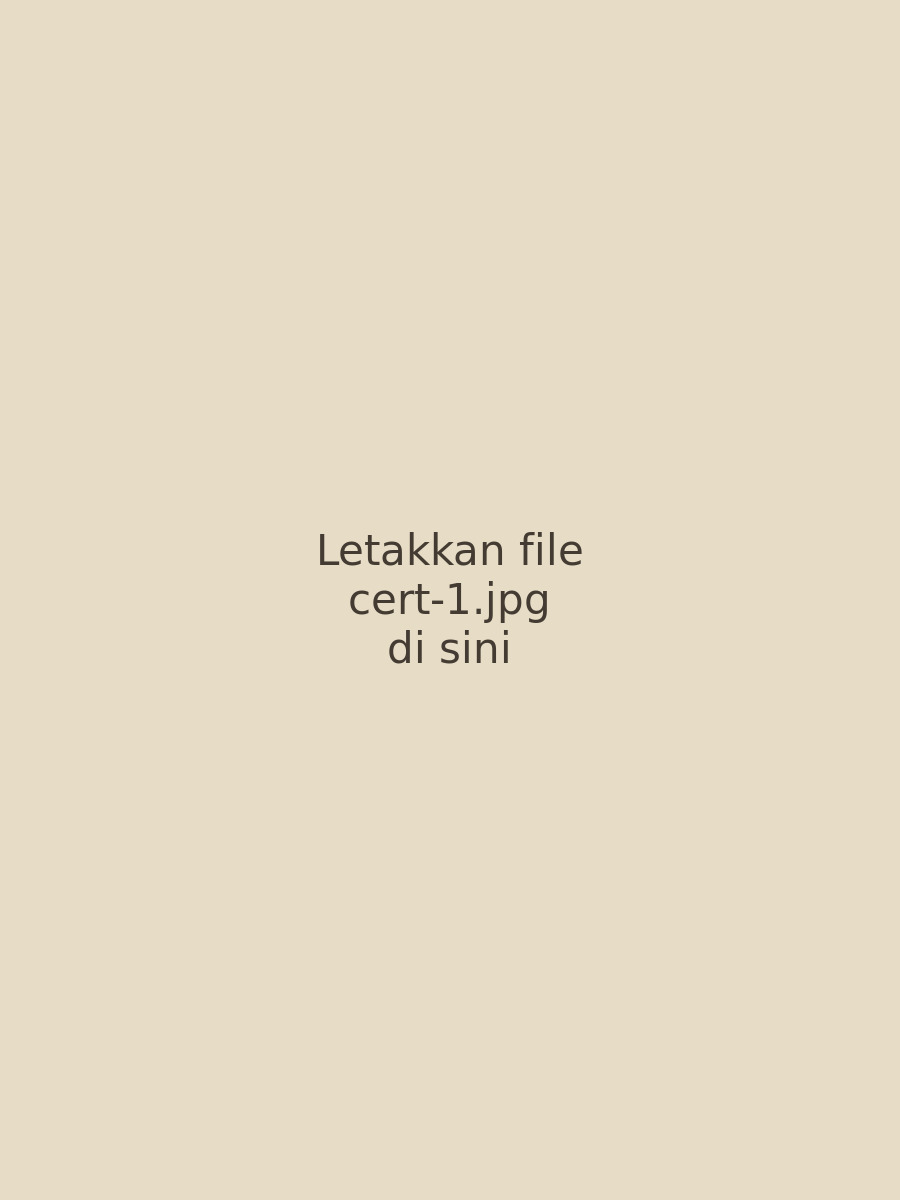
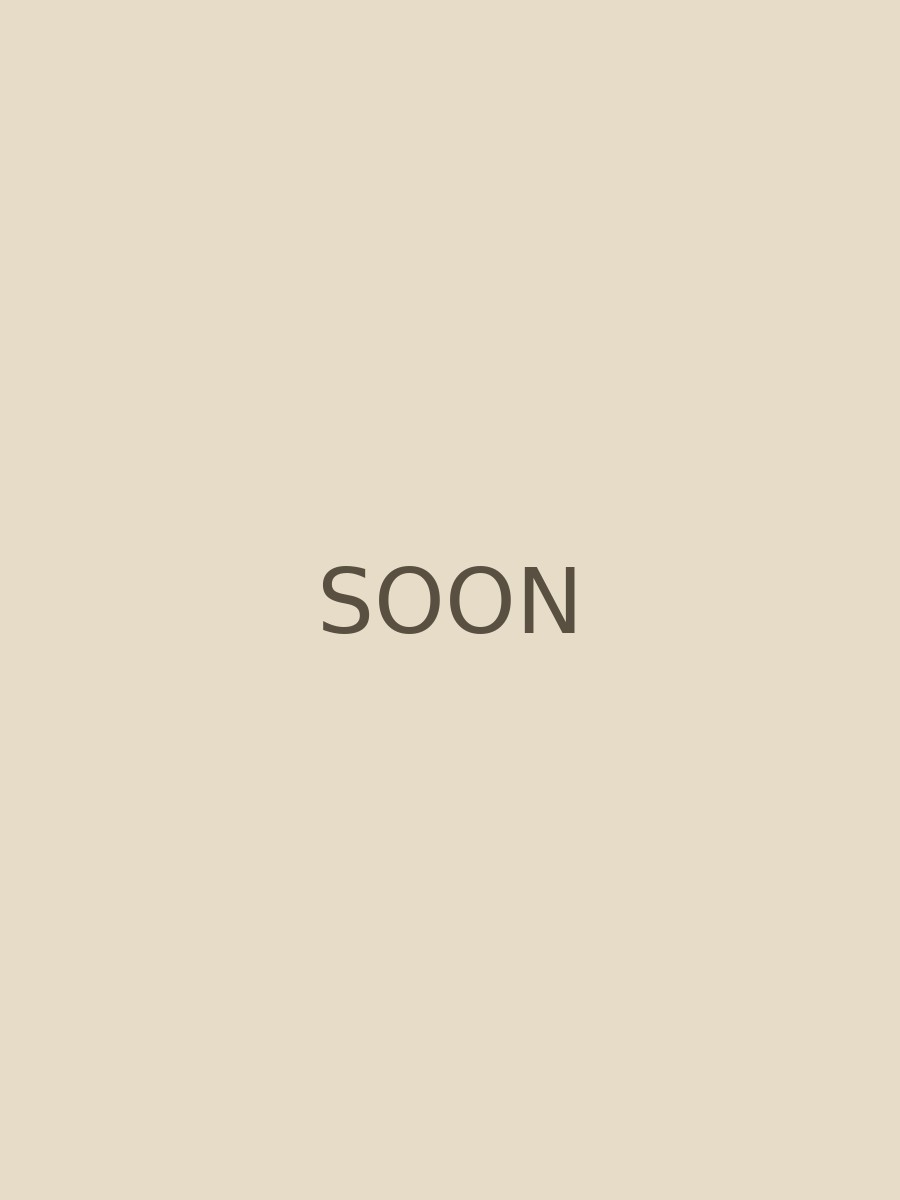
Ubah foto sertifikat 11sep2026

Changed region(s): [[0.3422, 0.4317, 0.6533, 0.555]]

diff --git a/dist/assets/index-ByrMPjtz.css b/dist/assets/index-ByrMPjtz.css
@@ -1,0 +1,2 @@
+/*! tailwindcss v4.3.3 | MIT License | https://tailwindcss.com */
+@layer properties{@supports (((-webkit-hyphens:none)) and (not (margin-trim:inline))) or ((-moz-orient:inline) and (not (color:rgb(from red r g b)))){*,:before,:after,::backdrop{--tw-translate-x:0;--tw-translate-y:0;--tw-translate-z:0;--tw-scale-x:1;--tw-scale-y:1;--tw-scale-z:1;--tw-rotate-x:initial;--tw-rotate-y:initial;--tw-rotate-z:initial;--tw-skew-x:initial;--tw-skew-y:initial;--tw-space-y-reverse:0;--tw-divide-y-reverse:0;--tw-border-style:solid;--tw-leading:initial;--tw-font-weight:initial;--tw-tracking:initial;--tw-shadow:0 0 #0000;--tw-shadow-color:initial;--tw-shadow-alpha:100%;--tw-inset-shadow:0 0 #0000;--tw-inset-shadow-color:initial;--tw-inset-shadow-alpha:100%;--tw-ring-color:initial;--tw-ring-shadow:0 0 #0000;--tw-inset-ring-color:initial;--tw-inset-ring-shadow:0 0 #0000;--tw-ring-inset:initial;--tw-ring-offset-width:0px;--tw-ring-offset-color:#fff;--tw-ring-offset-shadow:0 0 #0000;--tw-blur:initial;--tw-brightness:initial;--tw-contrast:initial;--tw-grayscale:initial;--tw-hue-rotate:initial;--tw-invert:initial;--tw-opacity:initial;--tw-saturate:initial;--tw-sepia:initial;--tw-drop-shadow:initial;--tw-drop-shadow-color:initial;--tw-drop-shadow-alpha:100%;--tw-drop-shadow-size:initial;--tw-backdrop-blur:initial;--tw-backdrop-brightness:initial;--tw-backdrop-contrast:initial;--tw-backdrop-grayscale:initial;--tw-backdrop-hue-rotate:initial;--tw-backdrop-invert:initial;--tw-backdrop-opacity:initial;--tw-backdrop-saturate:initial;--tw-backdrop-sepia:initial;--tw-duration:initial;--tw-ease:initial}}}@layer theme{:root,:host{--font-sans:-apple-system, BlinkMacSystemFont, "Segoe UI", Roboto, "Helvetica Neue", "Noto Sans", Arial, sans-serif, "Apple Color Emoji", "Segoe UI Emoji", "Segoe UI Symbol", "Noto Color Emoji";--font-mono:ui-monospace, SFMono-Regular, Menlo, Monaco, Consolas, "Liberation Mono", "Courier New", monospace;--color-black:#000;--color-white:#fff;--spacing:.25rem;--container-md:28rem;--container-lg:32rem;--container-3xl:48rem;--container-5xl:64rem;--text-xs:.75rem;--text-xs--line-height:calc(1 / .75);--text-sm:.875rem;--text-sm--line-height:calc(1.25 / .875);--text-base:1rem;--text-base--line-height:calc(1.5 / 1);--text-lg:1.125rem;--text-lg--line-height:calc(1.75 / 1.125);--text-2xl:1.5rem;--text-2xl--line-height:calc(2 / 1.5);--text-3xl:1.875rem;--text-3xl--line-height:calc(2.25 / 1.875);--text-4xl:2.25rem;--text-4xl--line-height:calc(2.5 / 2.25);--text-5xl:3rem;--text-5xl--line-height:1;--text-6xl:3.75rem;--text-6xl--line-height:1;--text-7xl:4.5rem;--text-7xl--line-height:1;--font-weight-medium:500;--font-weight-semibold:600;--tracking-tight:-.025em;--leading-tight:1.25;--leading-snug:1.375;--radius-md:.375rem;--radius-xl:.75rem;--radius-2xl:1rem;--ease-out:cubic-bezier(0, 0, .2, 1);--blur-md:12px;--default-transition-duration:.15s;--default-transition-timing-function:cubic-bezier(.4, 0, .2, 1);--default-font-family:var(--font-sans);--default-mono-font-family:var(--font-mono);--color-bg:#0d1117;--color-bg-soft:#151b23;--color-surface:#1c232c;--color-ink:#eef1f4;--color-accent:#22d3c7}}@layer base{*,:after,:before,::backdrop{box-sizing:border-box;border:0 solid;margin:0;padding:0}::file-selector-button{box-sizing:border-box;border:0 solid;margin:0;padding:0}html,:host{-webkit-text-size-adjust:100%;tab-size:4;line-height:1.5;font-family:var(--default-font-family,-apple-system, BlinkMacSystemFont, "Segoe UI", Roboto, "Helvetica Neue", "Noto Sans", Arial, sans-serif, "Apple Color Emoji", "Segoe UI Emoji", "Segoe UI Symbol", "Noto Color Emoji");font-feature-settings:var(--default-font-feature-settings,normal);font-variation-settings:var(--default-font-variation-settings,normal);-webkit-tap-highlight-color:transparent}hr{height:0;color:inherit;border-top-width:1px}abbr:where([title]){-webkit-text-decoration:underline dotted;text-decoration:underline dotted}h1,h2,h3,h4,h5,h6{font-size:inherit;font-weight:inherit}a{color:inherit;-webkit-text-decoration:inherit;-webkit-text-decoration:inherit;-webkit-text-decoration:inherit;-webkit-text-decoration:inherit;text-decoration:inherit}b,strong{font-weight:bolder}code,kbd,samp,pre{font-family:var(--default-mono-font-family,ui-monospace, SFMono-Regular, Menlo, Monaco, Consolas, "Liberation Mono", "Courier New", monospace);font-feature-settings:var(--default-mono-font-feature-settings,normal);font-variation-settings:var(--default-mono-font-variation-settings,normal);font-size:1em}small{font-size:80%}sub,sup{vertical-align:baseline;font-size:75%;line-height:0;position:relative}sub{bottom:-.25em}sup{top:-.5em}table{text-indent:0;border-color:inherit;border-collapse:collapse}:-moz-focusring:where(:not(iframe)){outline:auto}progress{vertical-align:baseline}summary{display:list-item}ol,ul,menu{list-style:none}img,svg,video,canvas,audio,iframe,embed,object{vertical-align:middle;display:block}img,video{max-width:100%;height:auto}button,input,select,optgroup,textarea{font:inherit;font-feature-settings:inherit;font-variation-settings:inherit;letter-spacing:inherit;color:inherit;opacity:1;background-color:#0000;border-radius:0}::file-selector-button{font:inherit;font-feature-settings:inherit;font-variation-settings:inherit;letter-spacing:inherit;color:inherit;opacity:1;background-color:#0000;border-radius:0}:where(select:is([multiple],[size])) optgroup{font-weight:bolder}:where(select:is([multiple],[size])) optgroup option{padding-inline-start:20px}::file-selector-button{margin-inline-end:4px}::placeholder{opacity:1}@supports (not ((-webkit-appearance:-apple-pay-button))) or (contain-intrinsic-size:1px){::placeholder{color:currentColor}@supports (color:color-mix(in lab, red, red)){::placeholder{color:color-mix(in oklab, currentcolor 50%, transparent)}}}textarea{resize:vertical}::-webkit-search-decoration{-webkit-appearance:none}::-webkit-date-and-time-value{min-height:1lh;text-align:inherit}::-webkit-datetime-edit{display:inline-flex}::-webkit-datetime-edit-fields-wrapper{padding:0}::-webkit-datetime-edit{padding-block:0}::-webkit-datetime-edit-year-field{padding-block:0}::-webkit-datetime-edit-month-field{padding-block:0}::-webkit-datetime-edit-day-field{padding-block:0}::-webkit-datetime-edit-hour-field{padding-block:0}::-webkit-datetime-edit-minute-field{padding-block:0}::-webkit-datetime-edit-second-field{padding-block:0}::-webkit-datetime-edit-millisecond-field{padding-block:0}::-webkit-datetime-edit-meridiem-field{padding-block:0}::-webkit-calendar-picker-indicator{line-height:1}:-moz-ui-invalid{box-shadow:none}button,input:where([type=button],[type=reset],[type=submit]){appearance:button}::file-selector-button{appearance:button}::-webkit-inner-spin-button{height:auto}::-webkit-outer-spin-button{height:auto}[hidden]:where(:not([hidden=until-found])){display:none!important}:root{color:var(--color-ink);background:var(--color-bg);font-synthesis:none;text-rendering:optimizelegibility;font-family:Inter,system-ui,sans-serif}html{scroll-behavior:auto;scroll-padding-top:88px}body{background:var(--color-bg);width:100%;min-width:320px;margin:0}main>section{flex-direction:column;justify-content:center;min-height:100vh;display:flex}a{color:inherit;text-decoration:none}button,a{-webkit-tap-highlight-color:transparent}::selection{background:var(--color-accent);color:var(--color-bg)}}@layer components;@layer utilities{.pointer-events-none{pointer-events:none}.visible{visibility:visible}.absolute{position:absolute}.fixed{position:fixed}.relative{position:relative}.static{position:static}.inset-0{inset:0}.inset-x-0{inset-inline:0}.inset-y-0{inset-block:0}.top-0{top:0}.top-1\/2{top:50%}.top-\[12\%\]{top:12%}.top-\[18\%\]{top:18%}.top-\[62\%\]{top:62%}.top-\[80\%\]{top:80%}.right-0{right:0}.right-3{right:calc(var(--spacing) * 3)}.right-6{right:calc(var(--spacing) * 6)}.-bottom-0,.bottom-0{bottom:0}.bottom-6{bottom:calc(var(--spacing) * 6)}.left-0{left:0}.left-3{left:calc(var(--spacing) * 3)}.left-\[40\%\]{left:40%}.left-\[46\%\]{left:46%}.left-\[58\%\]{left:58%}.left-\[64\%\]{left:64%}.z-10{z-index:10}.z-40{z-index:40}.z-50{z-index:50}.z-\[100\]{z-index:100}.container{width:100%}@media (width>=40rem){.container{max-width:40rem}}@media (width>=48rem){.container{max-width:48rem}}@media (width>=64rem){.container{max-width:64rem}}@media (width>=80rem){.container{max-width:80rem}}@media (width>=96rem){.container{max-width:96rem}}.mx-auto{margin-inline:auto}.mt-1{margin-top:var(--spacing)}.mt-2{margin-top:calc(var(--spacing) * 2)}.mt-3{margin-top:calc(var(--spacing) * 3)}.mt-4{margin-top:calc(var(--spacing) * 4)}.mt-5{margin-top:calc(var(--spacing) * 5)}.mt-6{margin-top:calc(var(--spacing) * 6)}.mt-8{margin-top:calc(var(--spacing) * 8)}.mt-10{margin-top:calc(var(--spacing) * 10)}.mt-12{margin-top:calc(var(--spacing) * 12)}.mt-auto{margin-top:auto}.mb-5{margin-bottom:calc(var(--spacing) * 5)}.block{display:block}.flex{display:flex}.grid{display:grid}.hidden{display:none}.inline{display:inline}.inline-block{display:inline-block}.aspect-\[3\/4\]{aspect-ratio:3/4}.aspect-\[4\/5\]{aspect-ratio:4/5}.aspect-\[16\/10\]{aspect-ratio:16/10}.h-1{height:var(--spacing)}.h-1\.5{height:calc(var(--spacing) * 1.5)}.h-1\/3{height:33.3333%}.h-1\/5{height:20%}.h-2{height:calc(var(--spacing) * 2)}.h-2\.5{height:calc(var(--spacing) * 2.5)}.h-3{height:calc(var(--spacing) * 3)}.h-4{height:calc(var(--spacing) * 4)}.h-9{height:calc(var(--spacing) * 9)}.h-11{height:calc(var(--spacing) * 11)}.h-full{height:100%}.h-px{height:1px}.max-h-0{max-height:0}.max-h-80{max-height:calc(var(--spacing) * 80)}.max-h-\[90vh\]{max-height:90vh}.w-1{width:var(--spacing)}.w-1\.5{width:calc(var(--spacing) * 1.5)}.w-1\/2{width:50%}.w-2{width:calc(var(--spacing) * 2)}.w-2\.5{width:calc(var(--spacing) * 2.5)}.w-3{width:calc(var(--spacing) * 3)}.w-3\/5{width:60%}.w-4{width:calc(var(--spacing) * 4)}.w-6{width:calc(var(--spacing) * 6)}.w-9{width:calc(var(--spacing) * 9)}.w-11{width:calc(var(--spacing) * 11)}.w-full{width:100%}.max-w-3xl{max-width:var(--container-3xl)}.max-w-5xl{max-width:var(--container-5xl)}.max-w-\[100rem\]{max-width:100rem}.max-w-\[360px\]{max-width:360px}.max-w-lg{max-width:var(--container-lg)}.max-w-md{max-width:var(--container-md)}.min-w-0{min-width:0}.flex-1{flex:1}.shrink-0{flex-shrink:0}.origin-left{transform-origin:0}.-translate-y-1\/2{--tw-translate-y:calc(calc(1 / 2 * 100%) * -1);translate:var(--tw-translate-x) var(--tw-translate-y)}.-translate-y-\[6px\]{--tw-translate-y:calc(6px * -1);translate:var(--tw-translate-x) var(--tw-translate-y)}.translate-y-0{--tw-translate-y:0px;translate:var(--tw-translate-x) var(--tw-translate-y)}.translate-y-3{--tw-translate-y:calc(var(--spacing) * 3);translate:var(--tw-translate-x) var(--tw-translate-y)}.translate-y-\[6px\]{--tw-translate-y:6px;translate:var(--tw-translate-x) var(--tw-translate-y)}.scale-x-0{--tw-scale-x:0%;scale:var(--tw-scale-x) var(--tw-scale-y)}.-rotate-45{rotate:-45deg}.rotate-45{rotate:45deg}.transform{transform:var(--tw-rotate-x,) var(--tw-rotate-y,) var(--tw-rotate-z,) var(--tw-skew-x,) var(--tw-skew-y,)}.resize{resize:both}.grid-cols-2{grid-template-columns:repeat(2,minmax(0,1fr))}.flex-col{flex-direction:column}.flex-wrap{flex-wrap:wrap}.items-center{align-items:center}.items-start{align-items:flex-start}.justify-between{justify-content:space-between}.justify-center{justify-content:center}.gap-1{gap:var(--spacing)}.gap-1\.5{gap:calc(var(--spacing) * 1.5)}.gap-2{gap:calc(var(--spacing) * 2)}.gap-2\.5{gap:calc(var(--spacing) * 2.5)}.gap-3{gap:calc(var(--spacing) * 3)}.gap-4{gap:calc(var(--spacing) * 4)}.gap-6{gap:calc(var(--spacing) * 6)}.gap-7{gap:calc(var(--spacing) * 7)}.gap-8{gap:calc(var(--spacing) * 8)}.gap-12{gap:calc(var(--spacing) * 12)}.gap-px{gap:1px}:where(.space-y-2>:not(:last-child)){--tw-space-y-reverse:0;margin-block-start:calc(calc(var(--spacing) * 2) * var(--tw-space-y-reverse));margin-block-end:calc(calc(var(--spacing) * 2) * calc(1 - var(--tw-space-y-reverse)))}:where(.divide-y>:not(:last-child)){--tw-divide-y-reverse:0;border-bottom-style:var(--tw-border-style);border-top-style:var(--tw-border-style);border-top-width:calc(1px * var(--tw-divide-y-reverse));border-bottom-width:calc(1px * calc(1 - var(--tw-divide-y-reverse)))}:where(.divide-ink\/10>:not(:last-child)){border-color:#eef1f41a}@supports (color:color-mix(in lab, red, red)){:where(.divide-ink\/10>:not(:last-child)){border-color:color-mix(in oklab, var(--color-ink) 10%, transparent)}}.truncate{text-overflow:ellipsis;white-space:nowrap;overflow:hidden}.overflow-hidden{overflow:hidden}.overflow-y-auto{overflow-y:auto}.rounded{border-radius:.25rem}.rounded-2xl{border-radius:var(--radius-2xl)}.rounded-\[2rem\]{border-radius:2rem}.rounded-full{border-radius:2147483647px}.rounded-md{border-radius:var(--radius-md)}.rounded-xl{border-radius:var(--radius-xl)}.border{border-style:var(--tw-border-style);border-width:1px}.border-t{border-top-style:var(--tw-border-style);border-top-width:1px}.border-b{border-bottom-style:var(--tw-border-style);border-bottom-width:1px}.border-accent\/50{border-color:#22d3c780}@supports (color:color-mix(in lab, red, red)){.border-accent\/50{border-color:color-mix(in oklab, var(--color-accent) 50%, transparent)}}.border-ink\/10{border-color:#eef1f41a}@supports (color:color-mix(in lab, red, red)){.border-ink\/10{border-color:color-mix(in oklab, var(--color-ink) 10%, transparent)}}.border-ink\/15{border-color:#eef1f426}@supports (color:color-mix(in lab, red, red)){.border-ink\/15{border-color:color-mix(in oklab, var(--color-ink) 15%, transparent)}}.border-ink\/20{border-color:#eef1f433}@supports (color:color-mix(in lab, red, red)){.border-ink\/20{border-color:color-mix(in oklab, var(--color-ink) 20%, transparent)}}.border-ink\/25{border-color:#eef1f440}@supports (color:color-mix(in lab, red, red)){.border-ink\/25{border-color:color-mix(in oklab, var(--color-ink) 25%, transparent)}}.bg-accent{background-color:var(--color-accent)}.bg-accent\/40{background-color:#22d3c766}@supports (color:color-mix(in lab, red, red)){.bg-accent\/40{background-color:color-mix(in oklab, var(--color-accent) 40%, transparent)}}.bg-accent\/60{background-color:#22d3c799}@supports (color:color-mix(in lab, red, red)){.bg-accent\/60{background-color:color-mix(in oklab, var(--color-accent) 60%, transparent)}}.bg-accent\/70{background-color:#22d3c7b3}@supports (color:color-mix(in lab, red, red)){.bg-accent\/70{background-color:color-mix(in oklab, var(--color-accent) 70%, transparent)}}.bg-bg{background-color:var(--color-bg)}.bg-bg-soft{background-color:var(--color-bg-soft)}.bg-bg\/35{background-color:#0d111759}@supports (color:color-mix(in lab, red, red)){.bg-bg\/35{background-color:color-mix(in oklab, var(--color-bg) 35%, transparent)}}.bg-bg\/85{background-color:#0d1117d9}@supports (color:color-mix(in lab, red, red)){.bg-bg\/85{background-color:color-mix(in oklab, var(--color-bg) 85%, transparent)}}.bg-bg\/90{background-color:#0d1117e6}@supports (color:color-mix(in lab, red, red)){.bg-bg\/90{background-color:color-mix(in oklab, var(--color-bg) 90%, transparent)}}.bg-bg\/95{background-color:#0d1117f2}@supports (color:color-mix(in lab, red, red)){.bg-bg\/95{background-color:color-mix(in oklab, var(--color-bg) 95%, transparent)}}.bg-black\/50{background-color:#00000080}@supports (color:color-mix(in lab, red, red)){.bg-black\/50{background-color:color-mix(in oklab, var(--color-black) 50%, transparent)}}.bg-black\/70{background-color:#000000b3}@supports (color:color-mix(in lab, red, red)){.bg-black\/70{background-color:color-mix(in oklab, var(--color-black) 70%, transparent)}}.bg-current{background-color:currentColor}.bg-ink{background-color:var(--color-ink)}.bg-ink\/10{background-color:#eef1f41a}@supports (color:color-mix(in lab, red, red)){.bg-ink\/10{background-color:color-mix(in oklab, var(--color-ink) 10%, transparent)}}.bg-ink\/15{background-color:#eef1f426}@supports (color:color-mix(in lab, red, red)){.bg-ink\/15{background-color:color-mix(in oklab, var(--color-ink) 15%, transparent)}}.bg-ink\/25{background-color:#eef1f440}@supports (color:color-mix(in lab, red, red)){.bg-ink\/25{background-color:color-mix(in oklab, var(--color-ink) 25%, transparent)}}.bg-ink\/30{background-color:#eef1f44d}@supports (color:color-mix(in lab, red, red)){.bg-ink\/30{background-color:color-mix(in oklab, var(--color-ink) 30%, transparent)}}.bg-ink\/40{background-color:#eef1f466}@supports (color:color-mix(in lab, red, red)){.bg-ink\/40{background-color:color-mix(in oklab, var(--color-ink) 40%, transparent)}}.bg-ink\/\[0\.03\]{background-color:#eef1f408}@supports (color:color-mix(in lab, red, red)){.bg-ink\/\[0\.03\]{background-color:color-mix(in oklab, var(--color-ink) 3%, transparent)}}.bg-ink\/\[0\.05\]{background-color:#eef1f40d}@supports (color:color-mix(in lab, red, red)){.bg-ink\/\[0\.05\]{background-color:color-mix(in oklab, var(--color-ink) 5%, transparent)}}.bg-surface{background-color:var(--color-surface)}.object-cover{object-fit:cover}.object-top{object-position:top}.p-2{padding:calc(var(--spacing) * 2)}.p-4{padding:calc(var(--spacing) * 4)}.p-6{padding:calc(var(--spacing) * 6)}.px-2\.5{padding-inline:calc(var(--spacing) * 2.5)}.px-3{padding-inline:calc(var(--spacing) * 3)}.px-3\.5{padding-inline:calc(var(--spacing) * 3.5)}.px-4{padding-inline:calc(var(--spacing) * 4)}.px-5{padding-inline:calc(var(--spacing) * 5)}.px-6{padding-inline:calc(var(--spacing) * 6)}.px-8{padding-inline:calc(var(--spacing) * 8)}.py-0\.5{padding-block:calc(var(--spacing) * .5)}.py-1{padding-block:var(--spacing)}.py-1\.5{padding-block:calc(var(--spacing) * 1.5)}.py-2\.5{padding-block:calc(var(--spacing) * 2.5)}.py-3{padding-block:calc(var(--spacing) * 3)}.py-5{padding-block:calc(var(--spacing) * 5)}.py-6{padding-block:calc(var(--spacing) * 6)}.py-16{padding-block:calc(var(--spacing) * 16)}.py-24{padding-block:calc(var(--spacing) * 24)}.pt-8{padding-top:calc(var(--spacing) * 8)}.pb-1{padding-bottom:var(--spacing)}.text-center{text-align:center}.text-left{text-align:left}.align-bottom{vertical-align:bottom}.text-2xl{font-size:var(--text-2xl);line-height:var(--tw-leading,var(--text-2xl--line-height))}.text-3xl{font-size:var(--text-3xl);line-height:var(--tw-leading,var(--text-3xl--line-height))}.text-5xl{font-size:var(--text-5xl);line-height:var(--tw-leading,var(--text-5xl--line-height))}.text-base{font-size:var(--text-base);line-height:var(--tw-leading,var(--text-base--line-height))}.text-lg{font-size:var(--text-lg);line-height:var(--tw-leading,var(--text-lg--line-height))}.text-sm{font-size:var(--text-sm);line-height:var(--tw-leading,var(--text-sm--line-height))}.text-xs{font-size:var(--text-xs);line-height:var(--tw-leading,var(--text-xs--line-height))}.leading-6{--tw-leading:calc(var(--spacing) * 6);line-height:calc(var(--spacing) * 6)}.leading-7{--tw-leading:calc(var(--spacing) * 7);line-height:calc(var(--spacing) * 7)}.leading-\[0\.95\]{--tw-leading:.95;line-height:.95}.leading-snug{--tw-leading:var(--leading-snug);line-height:var(--leading-snug)}.leading-tight{--tw-leading:var(--leading-tight);line-height:var(--leading-tight)}.font-medium{--tw-font-weight:var(--font-weight-medium);font-weight:var(--font-weight-medium)}.font-semibold{--tw-font-weight:var(--font-weight-semibold);font-weight:var(--font-weight-semibold)}.tracking-\[-0\.04em\]{--tw-tracking:-.04em;letter-spacing:-.04em}.tracking-\[0\.15em\]{--tw-tracking:.15em;letter-spacing:.15em}.tracking-\[0\.25em\]{--tw-tracking:.25em;letter-spacing:.25em}.tracking-tight{--tw-tracking:var(--tracking-tight);letter-spacing:var(--tracking-tight)}.break-all{word-break:break-all}.text-bg{color:var(--color-bg)}.text-ink{color:var(--color-ink)}.text-ink\/35{color:#eef1f459}@supports (color:color-mix(in lab, red, red)){.text-ink\/35{color:color-mix(in oklab, var(--color-ink) 35%, transparent)}}.text-ink\/40{color:#eef1f466}@supports (color:color-mix(in lab, red, red)){.text-ink\/40{color:color-mix(in oklab, var(--color-ink) 40%, transparent)}}.text-ink\/45{color:#eef1f473}@supports (color:color-mix(in lab, red, red)){.text-ink\/45{color:color-mix(in oklab, var(--color-ink) 45%, transparent)}}.text-ink\/50{color:#eef1f480}@supports (color:color-mix(in lab, red, red)){.text-ink\/50{color:color-mix(in oklab, var(--color-ink) 50%, transparent)}}.text-ink\/55{color:#eef1f48c}@supports (color:color-mix(in lab, red, red)){.text-ink\/55{color:color-mix(in oklab, var(--color-ink) 55%, transparent)}}.text-ink\/60{color:#eef1f499}@supports (color:color-mix(in lab, red, red)){.text-ink\/60{color:color-mix(in oklab, var(--color-ink) 60%, transparent)}}.text-ink\/75{color:#eef1f4bf}@supports (color:color-mix(in lab, red, red)){.text-ink\/75{color:color-mix(in oklab, var(--color-ink) 75%, transparent)}}.text-ink\/80{color:#eef1f4cc}@supports (color:color-mix(in lab, red, red)){.text-ink\/80{color:color-mix(in oklab, var(--color-ink) 80%, transparent)}}.text-ink\/85{color:#eef1f4d9}@supports (color:color-mix(in lab, red, red)){.text-ink\/85{color:color-mix(in oklab, var(--color-ink) 85%, transparent)}}.text-white\/80{color:#fffc}@supports (color:color-mix(in lab, red, red)){.text-white\/80{color:color-mix(in oklab, var(--color-white) 80%, transparent)}}.uppercase{text-transform:uppercase}.opacity-0{opacity:0}.opacity-55{opacity:.55}.opacity-100{opacity:1}.shadow-sm{--tw-shadow:0 1px 3px 0 var(--tw-shadow-color,#0000001a), 0 1px 2px -1px var(--tw-shadow-color,#0000001a);box-shadow:var(--tw-inset-shadow), var(--tw-inset-ring-shadow), var(--tw-ring-offset-shadow), var(--tw-ring-shadow), var(--tw-shadow)}.blur{--tw-blur:blur(8px);filter:var(--tw-blur,) var(--tw-brightness,) var(--tw-contrast,) var(--tw-grayscale,) var(--tw-hue-rotate,) var(--tw-invert,) var(--tw-saturate,) var(--tw-sepia,) var(--tw-drop-shadow,)}.filter{filter:var(--tw-blur,) var(--tw-brightness,) var(--tw-contrast,) var(--tw-grayscale,) var(--tw-hue-rotate,) var(--tw-invert,) var(--tw-saturate,) var(--tw-sepia,) var(--tw-drop-shadow,)}.filter\!{filter:var(--tw-blur,) var(--tw-brightness,) var(--tw-contrast,) var(--tw-grayscale,) var(--tw-hue-rotate,) var(--tw-invert,) var(--tw-saturate,) var(--tw-sepia,) var(--tw-drop-shadow,)!important}.backdrop-blur{--tw-backdrop-blur:blur(8px);-webkit-backdrop-filter:var(--tw-backdrop-blur,) var(--tw-backdrop-brightness,) var(--tw-backdrop-contrast,) var(--tw-backdrop-grayscale,) var(--tw-backdrop-hue-rotate,) var(--tw-backdrop-invert,) var(--tw-backdrop-opacity,) var(--tw-backdrop-saturate,) var(--tw-backdrop-sepia,);backdrop-filter:var(--tw-backdrop-blur,) var(--tw-backdrop-brightness,) var(--tw-backdrop-contrast,) var(--tw-backdrop-grayscale,) var(--tw-backdrop-hue-rotate,) var(--tw-backdrop-invert,) var(--tw-backdrop-opacity,) var(--tw-backdrop-saturate,) var(--tw-backdrop-sepia,)}.backdrop-blur-md{--tw-backdrop-blur:blur(var(--blur-md));-webkit-backdrop-filter:var(--tw-backdrop-blur,) var(--tw-backdrop-brightness,) var(--tw-backdrop-contrast,) var(--tw-backdrop-grayscale,) var(--tw-backdrop-hue-rotate,) var(--tw-backdrop-invert,) var(--tw-backdrop-opacity,) var(--tw-backdrop-saturate,) var(--tw-backdrop-sepia,);backdrop-filter:var(--tw-backdrop-blur,) var(--tw-backdrop-brightness,) var(--tw-backdrop-contrast,) var(--tw-backdrop-grayscale,) var(--tw-backdrop-hue-rotate,) var(--tw-backdrop-invert,) var(--tw-backdrop-opacity,) var(--tw-backdrop-saturate,) var(--tw-backdrop-sepia,)}.transition{transition-property:color,background-color,border-color,outline-color,text-decoration-color,fill,stroke,--tw-gradient-from,--tw-gradient-via,--tw-gradient-to,opacity,box-shadow,transform,translate,scale,rotate,filter,-webkit-backdrop-filter,backdrop-filter,display,content-visibility,overlay,pointer-events;transition-timing-function:var(--tw-ease,var(--default-transition-timing-function));transition-duration:var(--tw-duration,var(--default-transition-duration))}.transition-\[max-height\,opacity\]{transition-property:max-height,opacity;transition-timing-function:var(--tw-ease,var(--default-transition-timing-function));transition-duration:var(--tw-duration,var(--default-transition-duration))}.transition-all{transition-property:all;transition-timing-function:var(--tw-ease,var(--default-transition-timing-function));transition-duration:var(--tw-duration,var(--default-transition-duration))}.transition-colors{transition-property:color,background-color,border-color,outline-color,text-decoration-color,fill,stroke,--tw-gradient-from,--tw-gradient-via,--tw-gradient-to;transition-timing-function:var(--tw-ease,var(--default-transition-timing-function));transition-duration:var(--tw-duration,var(--default-transition-duration))}.transition-transform{transition-property:transform,translate,scale,rotate;transition-timing-function:var(--tw-ease,var(--default-transition-timing-function));transition-duration:var(--tw-duration,var(--default-transition-duration))}.duration-200{--tw-duration:.2s;transition-duration:.2s}.duration-300{--tw-duration:.3s;transition-duration:.3s}.duration-500{--tw-duration:.5s;transition-duration:.5s}.ease-out{--tw-ease:var(--ease-out);transition-timing-function:var(--ease-out)}@media (hover:hover){.group-hover\:scale-x-100:is(:where(.group):hover *){--tw-scale-x:100%;scale:var(--tw-scale-x) var(--tw-scale-y)}.group-hover\:scale-\[1\.03\]:is(:where(.group):hover *){scale:1.03}.group-hover\:border-ink\/25:is(:where(.group):hover *){border-color:#eef1f440}@supports (color:color-mix(in lab, red, red)){.group-hover\:border-ink\/25:is(:where(.group):hover *){border-color:color-mix(in oklab, var(--color-ink) 25%, transparent)}}.hover\:scale-105:hover{--tw-scale-x:105%;--tw-scale-y:105%;--tw-scale-z:105%;scale:var(--tw-scale-x) var(--tw-scale-y)}.hover\:scale-110:hover{--tw-scale-x:110%;--tw-scale-y:110%;--tw-scale-z:110%;scale:var(--tw-scale-x) var(--tw-scale-y)}.hover\:scale-\[1\.02\]:hover{scale:1.02}.hover\:border-ink\/30:hover{border-color:#eef1f44d}@supports (color:color-mix(in lab, red, red)){.hover\:border-ink\/30:hover{border-color:color-mix(in oklab, var(--color-ink) 30%, transparent)}}.hover\:border-ink\/35:hover{border-color:#eef1f459}@supports (color:color-mix(in lab, red, red)){.hover\:border-ink\/35:hover{border-color:color-mix(in oklab, var(--color-ink) 35%, transparent)}}.hover\:border-ink\/50:hover{border-color:#eef1f480}@supports (color:color-mix(in lab, red, red)){.hover\:border-ink\/50:hover{border-color:color-mix(in oklab, var(--color-ink) 50%, transparent)}}.hover\:bg-bg:hover{background-color:var(--color-bg)}.hover\:bg-black\/70:hover{background-color:#000000b3}@supports (color:color-mix(in lab, red, red)){.hover\:bg-black\/70:hover{background-color:color-mix(in oklab, var(--color-black) 70%, transparent)}}.hover\:bg-ink\/5:hover{background-color:#eef1f40d}@supports (color:color-mix(in lab, red, red)){.hover\:bg-ink\/5:hover{background-color:color-mix(in oklab, var(--color-ink) 5%, transparent)}}.hover\:text-ink:hover{color:var(--color-ink)}.hover\:text-white:hover{color:var(--color-white)}}.active\:scale-90:active{--tw-scale-x:90%;--tw-scale-y:90%;--tw-scale-z:90%;scale:var(--tw-scale-x) var(--tw-scale-y)}.active\:scale-95:active{--tw-scale-x:95%;--tw-scale-y:95%;--tw-scale-z:95%;scale:var(--tw-scale-x) var(--tw-scale-y)}@media (width>=40rem){.sm\:right-8{right:calc(var(--spacing) * 8)}.sm\:bottom-8{bottom:calc(var(--spacing) * 8)}.sm\:grid-cols-2{grid-template-columns:repeat(2,minmax(0,1fr))}.sm\:flex-row{flex-direction:row}.sm\:items-center{align-items:center}.sm\:justify-between{justify-content:space-between}.sm\:p-6{padding:calc(var(--spacing) * 6)}.sm\:p-8{padding:calc(var(--spacing) * 8)}.sm\:px-10{padding-inline:calc(var(--spacing) * 10)}.sm\:px-16{padding-inline:calc(var(--spacing) * 16)}.sm\:text-3xl{font-size:var(--text-3xl);line-height:var(--tw-leading,var(--text-3xl--line-height))}.sm\:text-4xl{font-size:var(--text-4xl);line-height:var(--tw-leading,var(--text-4xl--line-height))}.sm\:text-6xl{font-size:var(--text-6xl);line-height:var(--tw-leading,var(--text-6xl--line-height))}}@media (width>=48rem){.md\:block{display:block}.md\:flex{display:flex}.md\:hidden{display:none}.md\:max-w-\[46\%\]{max-width:46%}.md\:grid-cols-\[1\.4fr_1fr\]{grid-template-columns:1.4fr 1fr}.md\:gap-8{gap:calc(var(--spacing) * 8)}.md\:text-6xl{font-size:var(--text-6xl);line-height:var(--tw-leading,var(--text-6xl--line-height))}}@media (width>=64rem){.lg\:max-w-\[44\%\]{max-width:44%}.lg\:grid-cols-3{grid-template-columns:repeat(3,minmax(0,1fr))}.lg\:grid-cols-\[1\.3fr_0\.9fr\]{grid-template-columns:1.3fr .9fr}.lg\:grid-cols-\[1fr_1fr\]{grid-template-columns:1fr 1fr}.lg\:gap-16{gap:calc(var(--spacing) * 16)}.lg\:px-16{padding-inline:calc(var(--spacing) * 16)}.lg\:text-7xl{font-size:var(--text-7xl);line-height:var(--tw-leading,var(--text-7xl--line-height))}}@media (width>=96rem){.\32 xl\:grid-cols-4{grid-template-columns:repeat(4,minmax(0,1fr))}.\32 xl\:px-24{padding-inline:calc(var(--spacing) * 24)}}}@property --tw-translate-x{syntax:"*";inherits:false;initial-value:0}@property --tw-translate-y{syntax:"*";inherits:false;initial-value:0}@property --tw-translate-z{syntax:"*";inherits:false;initial-value:0}@property --tw-scale-x{syntax:"*";inherits:false;initial-value:1}@property --tw-scale-y{syntax:"*";inherits:false;initial-value:1}@property --tw-scale-z{syntax:"*";inherits:false;initial-value:1}@property --tw-rotate-x{syntax:"*";inherits:false}@property --tw-rotate-y{syntax:"*";inherits:false}@property --tw-rotate-z{syntax:"*";inherits:false}@property --tw-skew-x{syntax:"*";inherits:false}@property --tw-skew-y{syntax:"*";inherits:false}@property --tw-space-y-reverse{syntax:"*";inherits:false;initial-value:0}@property --tw-divide-y-reverse{syntax:"*";inherits:false;initial-value:0}@property --tw-border-style{syntax:"*";inherits:false;initial-value:solid}@property --tw-leading{syntax:"*";inherits:false}@property --tw-font-weight{syntax:"*";inherits:false}@property --tw-tracking{syntax:"*";inherits:false}@property --tw-shadow{syntax:"*";inherits:false;initial-value:0 0 #0000}@property --tw-shadow-color{syntax:"*";inherits:false}@property --tw-shadow-alpha{syntax:"<percentage>";inherits:false;initial-value:100%}@property --tw-inset-shadow{syntax:"*";inherits:false;initial-value:0 0 #0000}@property --tw-inset-shadow-color{syntax:"*";inherits:false}@property --tw-inset-shadow-alpha{syntax:"<percentage>";inherits:false;initial-value:100%}@property --tw-ring-color{syntax:"*";inherits:false}@property --tw-ring-shadow{syntax:"*";inherits:false;initial-value:0 0 #0000}@property --tw-inset-ring-color{syntax:"*";inherits:false}@property --tw-inset-ring-shadow{syntax:"*";inherits:false;initial-value:0 0 #0000}@property --tw-ring-inset{syntax:"*";inherits:false}@property --tw-ring-offset-width{syntax:"<length>";inherits:false;initial-value:0}@property --tw-ring-offset-color{syntax:"*";inherits:false;initial-value:#fff}@property --tw-ring-offset-shadow{syntax:"*";inherits:false;initial-value:0 0 #0000}@property --tw-blur{syntax:"*";inherits:false}@property --tw-brightness{syntax:"*";inherits:false}@property --tw-contrast{syntax:"*";inherits:false}@property --tw-grayscale{syntax:"*";inherits:false}@property --tw-hue-rotate{syntax:"*";inherits:false}@property --tw-invert{syntax:"*";inherits:false}@property --tw-opacity{syntax:"*";inherits:false}@property --tw-saturate{syntax:"*";inherits:false}@property --tw-sepia{syntax:"*";inherits:false}@property --tw-drop-shadow{syntax:"*";inherits:false}@property --tw-drop-shadow-color{syntax:"*";inherits:false}@property --tw-drop-shadow-alpha{syntax:"<percentage>";inherits:false;initial-value:100%}@property --tw-drop-shadow-size{syntax:"*";inherits:false}@property --tw-backdrop-blur{syntax:"*";inherits:false}@property --tw-backdrop-brightness{syntax:"*";inherits:false}@property --tw-backdrop-contrast{syntax:"*";inherits:false}@property --tw-backdrop-grayscale{syntax:"*";inherits:false}@property --tw-backdrop-hue-rotate{syntax:"*";inherits:false}@property --tw-backdrop-invert{syntax:"*";inherits:false}@property --tw-backdrop-opacity{syntax:"*";inherits:false}@property --tw-backdrop-saturate{syntax:"*";inherits:false}@property --tw-backdrop-sepia{syntax:"*";inherits:false}@property --tw-duration{syntax:"*";inherits:false}@property --tw-ease{syntax:"*";inherits:false}

diff --git a/src/components/Navbar.jsx b/src/components/Navbar.jsx
@@ -68,9 +68,9 @@ function Navbar() {
             >
               {label}
               {activeSection === id ? (
-                <span className="absolute -bottom-0 left-0 h-px w-full bg-accent" />
+                <span className="absolute bottom-0 left-0 h-px w-full bg-accent" />
               ) : (
-                <span className="absolute -bottom-0 left-0 h-px w-full origin-left scale-x-0 bg-accent/70 transition-transform duration-300 ease-out group-hover:scale-x-100" />
+                <span className="absolute bottom-0 left-0 h-px w-full origin-left scale-x-0 bg-accent/70 transition-transform duration-300 ease-out group-hover:scale-x-100" />
               )}
             </button>
           ))}
@@ -86,12 +86,12 @@ function Navbar() {
           <span className="relative block h-3 w-4">
             <span
               className={`absolute left-0 top-0 h-px w-4 bg-current transition-transform duration-300 ${
-                open ? "translate-y-[6px] rotate-45" : ""
+                open ? "translate-y-1.5 rotate-45" : ""
               }`}
             />
             <span
               className={`absolute left-0 bottom-0 h-px w-4 bg-current transition-transform duration-300 ${
-                open ? "-translate-y-[6px] -rotate-45" : ""
+                open ? "-translate-y-1.5 -rotate-45" : ""
               }`}
             />
           </span>

diff --git a/src/components/Certifications.jsx b/src/components/Certifications.jsx
@@ -24,7 +24,7 @@ const items = [
 
 const certificatePhotos = [
   { src: "/certifications/cert-1.jpg", alt: "Sertifikat Digital Marketing BNSP" },
-  { src: "/certifications/cert-2.jpg", alt: "Sertifikat Digital Marketing Bootcamp Haltev" },
+  { src: "/certifications/cert-1.jpg", alt: "Sertifikat Digital Marketing Bootcamp Haltev" },
 ];
 
 function Certifications() {
@@ -74,7 +74,7 @@ function Certifications() {
               <div
                 key={cert.src}
                 data-reveal
-                className="aspect-[3/4] overflow-hidden rounded-2xl border border-ink/15 bg-surface"
+                className="aspect-3/4 overflow-hidden rounded-2xl border border-ink/15 bg-surface"
               >
                 <img
                   src={cert.src}

diff --git a/dist/index.html b/dist/index.html
@@ -9,8 +9,8 @@
       content="Farhan Ramadhan — Digital Marketing Specialist dengan background Teknik Informatika. Portofolio project digital marketing dan pengembangan web."
     />
     <title>Farhan Ramadhan | Digital Marketing Portfolio</title>
-    <script type="module" crossorigin src="/assets/index-FXfyKLyy.js"></script>
-    <link rel="stylesheet" crossorigin href="/assets/index-D3He7Kne.css">
+    <script type="module" crossorigin src="/assets/index-Drlmz8hz.js"></script>
+    <link rel="stylesheet" crossorigin href="/assets/index-ByrMPjtz.css">
   </head>
   <body>
     <div id="root"></div>
